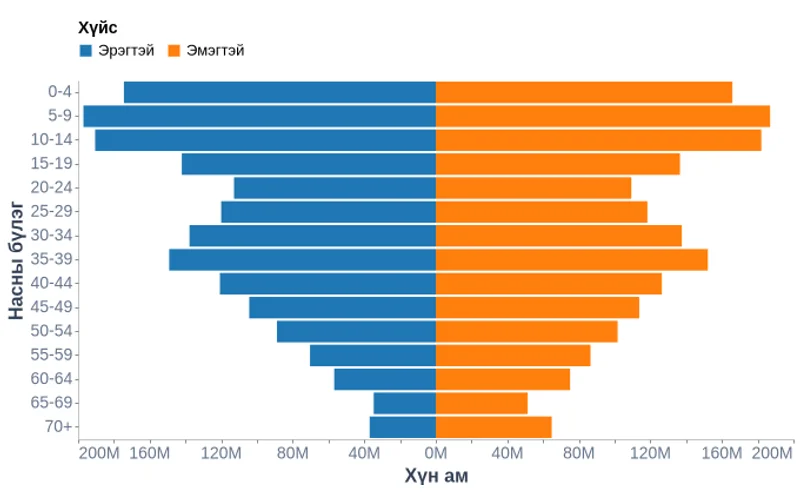
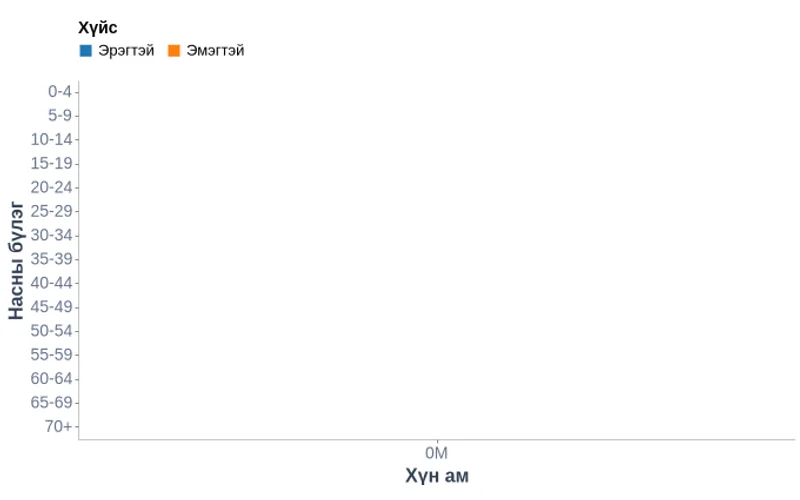
Fix thumbnail generation for cache-busted data URLs

diff --git a/data.mn/scripts/export-chart-thumbnails.js b/data.mn/scripts/export-chart-thumbnails.js
@@ -151,9 +151,22 @@ async function exportChart(specPath, outputPath) {
   const vegaSpec = vegaLite.compile(chartSpec).spec;
 
   // Create Vega view with loader for resolving /datasets/*.csv
-  const loader = vega.loader({
+  // Custom loader that strips query parameters (e.g., ?v=2 cache busters)
+  const baseLoader = vega.loader({
     baseURL: path.resolve(__dirname, '../public'),
   });
+
+  const loader = {
+    ...baseLoader,
+    load: (uri, options) => {
+      // Strip query parameters from URLs for local file loading
+      const cleanUri = uri.split('?')[0];
+      return baseLoader.load(cleanUri, options);
+    },
+    sanitize: baseLoader.sanitize.bind(baseLoader),
+    http: baseLoader.http.bind(baseLoader),
+    file: baseLoader.file.bind(baseLoader),
+  };
 
   // Create Vega view for server-side rendering
   // Use 'none' renderer, then toCanvas() will use node-canvas
